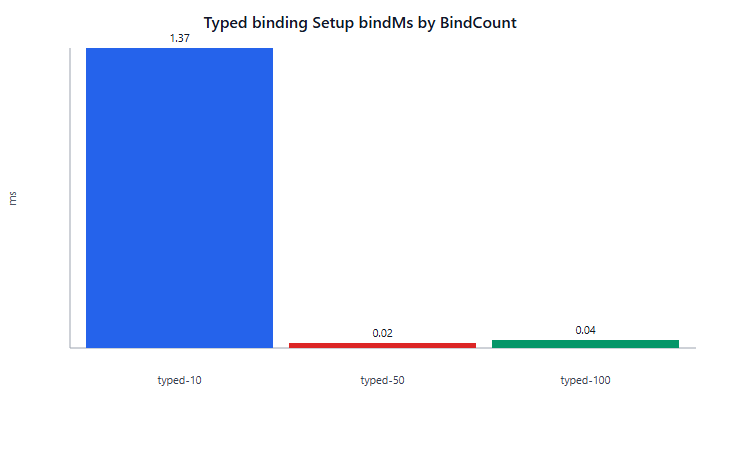
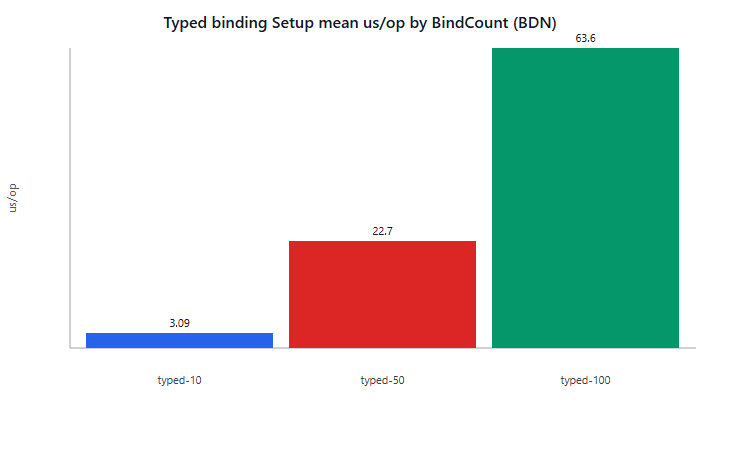
fix(benchmarks): use BDN BindingSetup for setup chart

diff --git a/benchmarks/report/RESULTS.md b/benchmarks/report/RESULTS.md
@@ -14,7 +14,7 @@
 | Test version | v1.1.0 | v1.1.0 |
 | Pipeline | `run-all.ps1` (Core BDN 21 + Godot 6 scenarios PASS) | `run-all.ps1` (Core BDN 21 + Godot 6 scenarios PASS) |
 
-Note: Desktop runs are JIT, not export AOT. Charts were generated on **Windows**; numbers in the dual-column tables in this document are authoritative.
+Note: Desktop runs are JIT, not export AOT. Charts were generated on **Windows**; numbers in the dual-column tables in this document are authoritative. The binding-setup chart uses BenchmarkDotNet `BindingSetupBenchmarks` (not single-shot EvidenceCollector).
 
 ## Charts (Windows)
 
@@ -144,13 +144,13 @@ Godot PropertyBurst:
 
 ## 7. Setup and View lifecycle
 
-Core Setup (excerpt):
+Core Setup — BenchmarkDotNet `BindingSetupBenchmarks.TypedBindAndDispose` (with warmup; chart source):
 
-| mode | bindCount | bindMs (Mac / Win) | disposeMs (Mac / Win) |
-| ----------- | --------: | ----------------- | -------------------- |
-| typed-setup | 10 | 0.70 / 1.37 | 0.12 / 0.25 |
-| typed-setup | 50 | 0.02 / 0.02 | 0.01 / 0.02 |
-| typed-setup | 100 | 0.03 / 0.04 | 0.03 / 0.06 |
+| method | bindCount | mean µs/op | mean ms/op |
+| ----------- | --------: | ---------: | ---------: |
+| TypedBindAndDispose | 10 | 3.09 | 0.0031 |
+| TypedBindAndDispose | 50 | 22.67 | 0.0227 |
+| TypedBindAndDispose | 100 | 63.56 | 0.0636 |
 
 Godot ViewLifecycle:
 
@@ -160,7 +160,7 @@ Godot ViewLifecycle:
 | 50 | 11.20 / 10.11 | 0.04 / 0.05 |
 | 100 | 9.03 / 8.62 | 0.12 / 0.11 |
 
-**Comparison conclusion:** Both sides show **warmup noise at small bindCount**; Godot initMs is dominated by fixed overhead. Frequent enter/exit should use pooling, not absolute-ms interpretation.
+**Comparison conclusion:** Post-warmup BDN setup scales with bind count (10→100 ≈ 3→64 µs) without first-hit JIT skew; absolute cost stays small. Godot initMs remains dominated by fixed host overhead on both machines. Frequent enter/exit should use pooling, not absolute-ms interpretation.
 
 ## 8. View / Window pools
 
